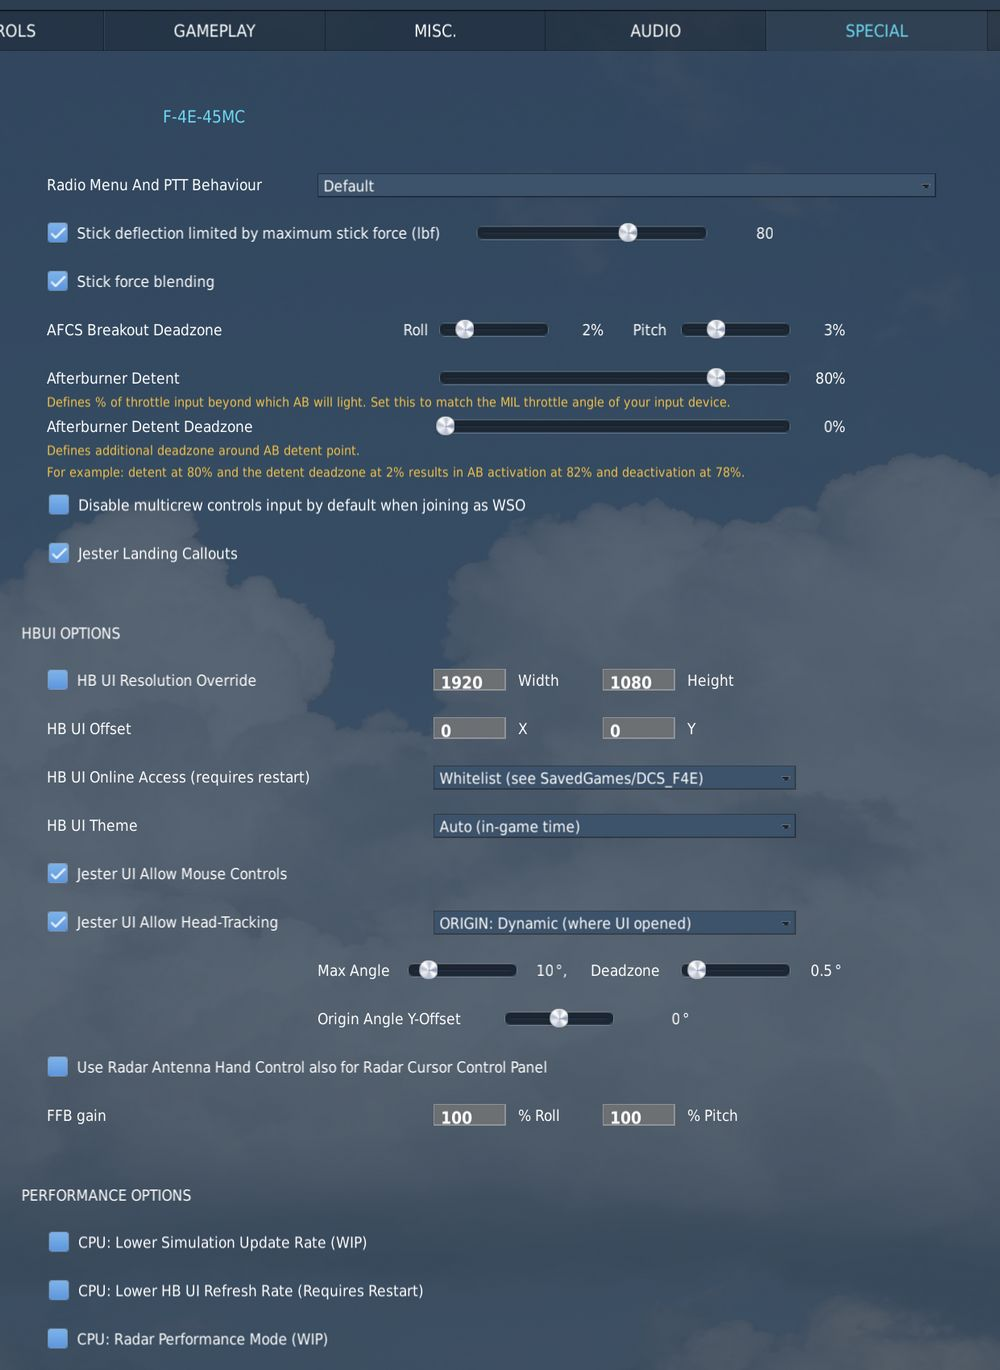
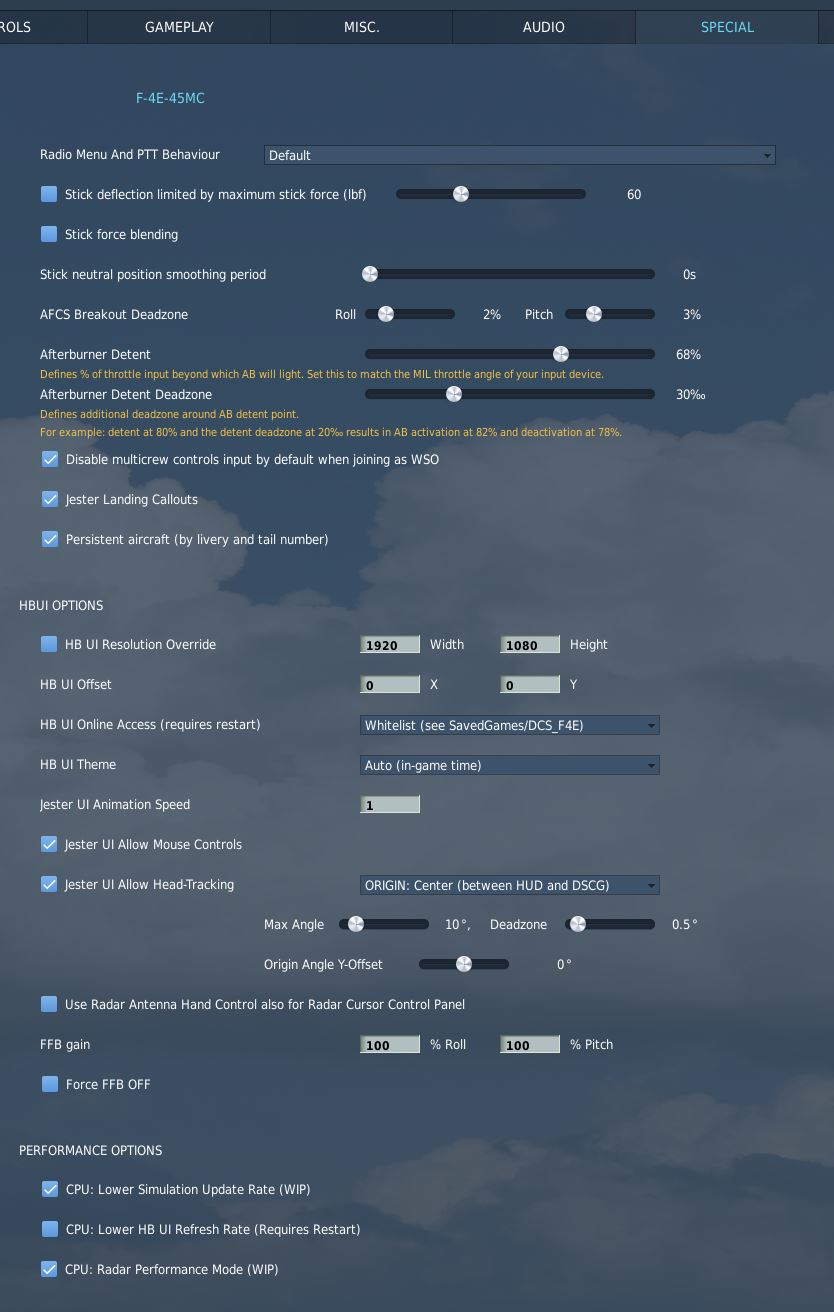
Added Persistent Aircraft system (#436)
* Special option persistent ac description

* Mission editor description

* linter fixes

* Added Persistence chapter, reworded some details for better UX

* added full path

* CR changes

* added "f4 in hangar" pic to make the chapter more interesting

---------

diff --git a/src/dcs/mission_editor.md b/src/dcs/mission_editor.md
@@ -46,6 +46,11 @@ of moving the elevation gimbal between 58 and 62 degrees per second.
 > 💡 Variance goes in both directions, your Phantom can also be faster than it
 > is supposed to be.
 
+Condition and wear also change the chance of failures.
+Each component has a mean operating time. At spawn, an expected lifetime is
+drawn around that mean. Higher wear and lower condition make failures
+more likely.
+
 ### Aircraft Condition
 
 An aircraft's condition generally refers to its factory and production quality.
@@ -89,18 +94,32 @@ variance σ will additionally increase by 20%. Assuming a good initial starting
 condition, the motor will at that point likely operate between 45 and 75 degrees
 per second.
 
+A worn or poor condition aircraft can also feel sluggish. For example, needles
+may move slower, or engines may produce less power.
+
 ![Crashed Phantom](../img/broken_phantom_crash.jpg)
 
-### Reference Aircraft
+## Aircraft Type On Spawn
 
-The variance system at initial spawn can be turned off with this checkbox, if
-desired. Components will then start with their mean value μ, without any
-variance.
+Dropdown to select which aircraft state is used at spawn.
 
-That is, with the option checked the setting for condition, as well as wear and
-tear are ignored and disabled. The aircraft will spawn with all properties set
-exactly as specified by the manufacturer and according to documentation, without
-any variance.
+### Random
+
+Generates a new unique aircraft. Condition and wear settings
+are applied as chosen.
+
+If the user enabled aircraft persistence in their
+[Special Options](special_options.md#persistent-aircraft-by-livery-and-tail-number)
+and the aircraft matches a previously saved aircraft,
+the persisted aircraft will be loaded instead.
+
+### Reference
+
+The aircraft used in this flight is the _reference aircraft_.
+
+This effectively ignores the settings for condition, as well as wear and
+tear. The aircraft will spawn with all properties set exactly as specified by the
+manufacturer and according to documentation, without any variance.
 
 This is especially interesting for competitions, where both sides should start
 with the same conditions for fairness. Or when performing tests and computing
@@ -110,6 +129,28 @@ values.
 > 💡 Even the reference aircraft is still subject to wear and tear during
 > flight. In a competition, if you pull high Gs, your aircraft's component
 > properties will deviate from your opponents.
+
+### Persistent
+
+Enables the aircraft persistence system. This starts tracking this particular
+aircraft, saving its state for a subsequent flight. And if a matching state
+could already be found, it will also load this persisted aircraft for this flight.
+
+See [9.6. Persistence](persistence.md) for details.
+
+> 💡 This overrules persistence settings made by the user,
+> see [9.2. Special Options](special_options.md#persistent-aircraft-by-livery-and-tail-number).
+
+## Persistent Aircraft Key
+
+This text box allows entering the name (also known as _Aircraft Key_) for the
+aircraft to be saved and loaded by the persistency system.
+
+Enter a short text with letters and numbers, for example `campaign_1`. Use the same
+key across missions in one campaign to keep a single shared airframe. Use
+different keys to represent different persisted aircraft.
+
+See [9.6. Persistence](persistence.md) for details.
 
 ## INS Reference Alignment Stored
 

diff --git a/src/dcs/persistence.md b/src/dcs/persistence.md
@@ -1,0 +1,64 @@
+# Persistence
+
+The module features a persistence system that allows saving the aircraft's
+current state, making it available for a subsequent flight - even across
+missions.
+
+> 💡 Aircraft persistence can be a great feature for **campaign builders**,
+> simulating that the pilot has to re-use the same aircraft across several
+> missions of the campaign.
+
+![F4 in Hangar](../img/f4_in_hangar.jpg)
+
+The aircraft state includes all its properties, as well as its components
+[wear, tear and condition](mission_editor.md#condition-and-wear). This also
+includes positions of switches and knobs. Damaged components are **automatically
+repaired** between flights.
+
+> 💡 Depending on the spawn type, the ground crew might change some switches and
+> knobs while preparing the aircraft for the pilot in advance.
+
+With persistence enabled, the state of the aircraft will be automatically saved
+when the aircraft is **successfully left on ground** (for example not in-flight
+or after a crash).
+
+## Aircraft Key
+
+A persisted aircraft is saved as file located in the **Saved Games** folder. A
+possible path might for example look like:
+
+`C:\Users\John Doe\Saved Games\DCS_F4E\cache\persistent_ac`
+
+The name of the file is the _aircraft key_ used to identify a particular
+persisted aircraft.
+
+These keys are either automatically generated based on **Livery** and **Tail
+Number** of the aircraft, or set explicitly by the author of a mission through
+Mission Editor settings.
+
+## Enable
+
+There are two ways to enable the persistence system to save and load the
+aircraft state.
+
+### Special Setting
+
+The user can setup persistency in their Special Settings by checking
+[Persistent Aircraft (by livery and tail number)](special_options.md#persistent-aircraft-by-livery-and-tail-number).
+
+The bind **Initialize Persistent Aircraft State** must be pressed on first use
+to start tracking this particular aircraft.
+
+The aircraft is tracked by its livery and tail number. Any subsequent mission
+flown with the same combination of livery and tail number, while aircraft
+persistence is enabled, will load this particular aircraft.
+
+### Mission Editor
+
+The author of a mission can overrule any user made special settings for their
+mission by enabling or disabling the persistence systems through Mission Editor
+settings.
+
+The option [Spawn Type: Persistent](mission_editor.md#persistent) enables the
+system and [Persistent Aircraft Key](mission_editor.md#persistent-aircraft-key)
+is used determine which particular tracked aircraft is flown in this mission.

diff --git a/src/dcs/special_options.md b/src/dcs/special_options.md
@@ -114,6 +114,20 @@ altitude, similar as seen in civilian aviation.
 
 > 💡 Real Phantom WSOs did not assist during landing.
 
+## Persistent Aircraft (by livery and tail number)
+
+When checked, enables the aircraft persistence system.
+Allowing to save and load aircraft state across flights.
+
+The bind **Initialize Persistent Aircraft State** is used initially to start tracking the current aircraft.
+Any subsequent mission flown with the same combination of livery and
+tail-number results in this particular aircraft being loaded again.
+
+See [9.6. Persistence](persistence.md) for details.
+
+> 💡 Mission authors can overrule this setting,
+> see [9.12. Mission Editor](mission_editor.md#persistent).
+
 ## HB UI
 
 ### Resolution Override

diff --git a/src/SUMMARY.md b/src/SUMMARY.md
@@ -177,6 +177,7 @@
   - [Embedded Manual](./dcs/embedded_manual.md)
   - [Bombing Computer](./dcs/bombing_computer.md)
   - [EFB](./dcs/efb.md)
+  - [Persistence](./dcs/persistence.md)
   - [Grease Pencil](./dcs/grease_pencil.md)
   - [Virtual Browser](./dcs/virtual_browser.md)
   - [Recorders](./dcs/recorders.md)
